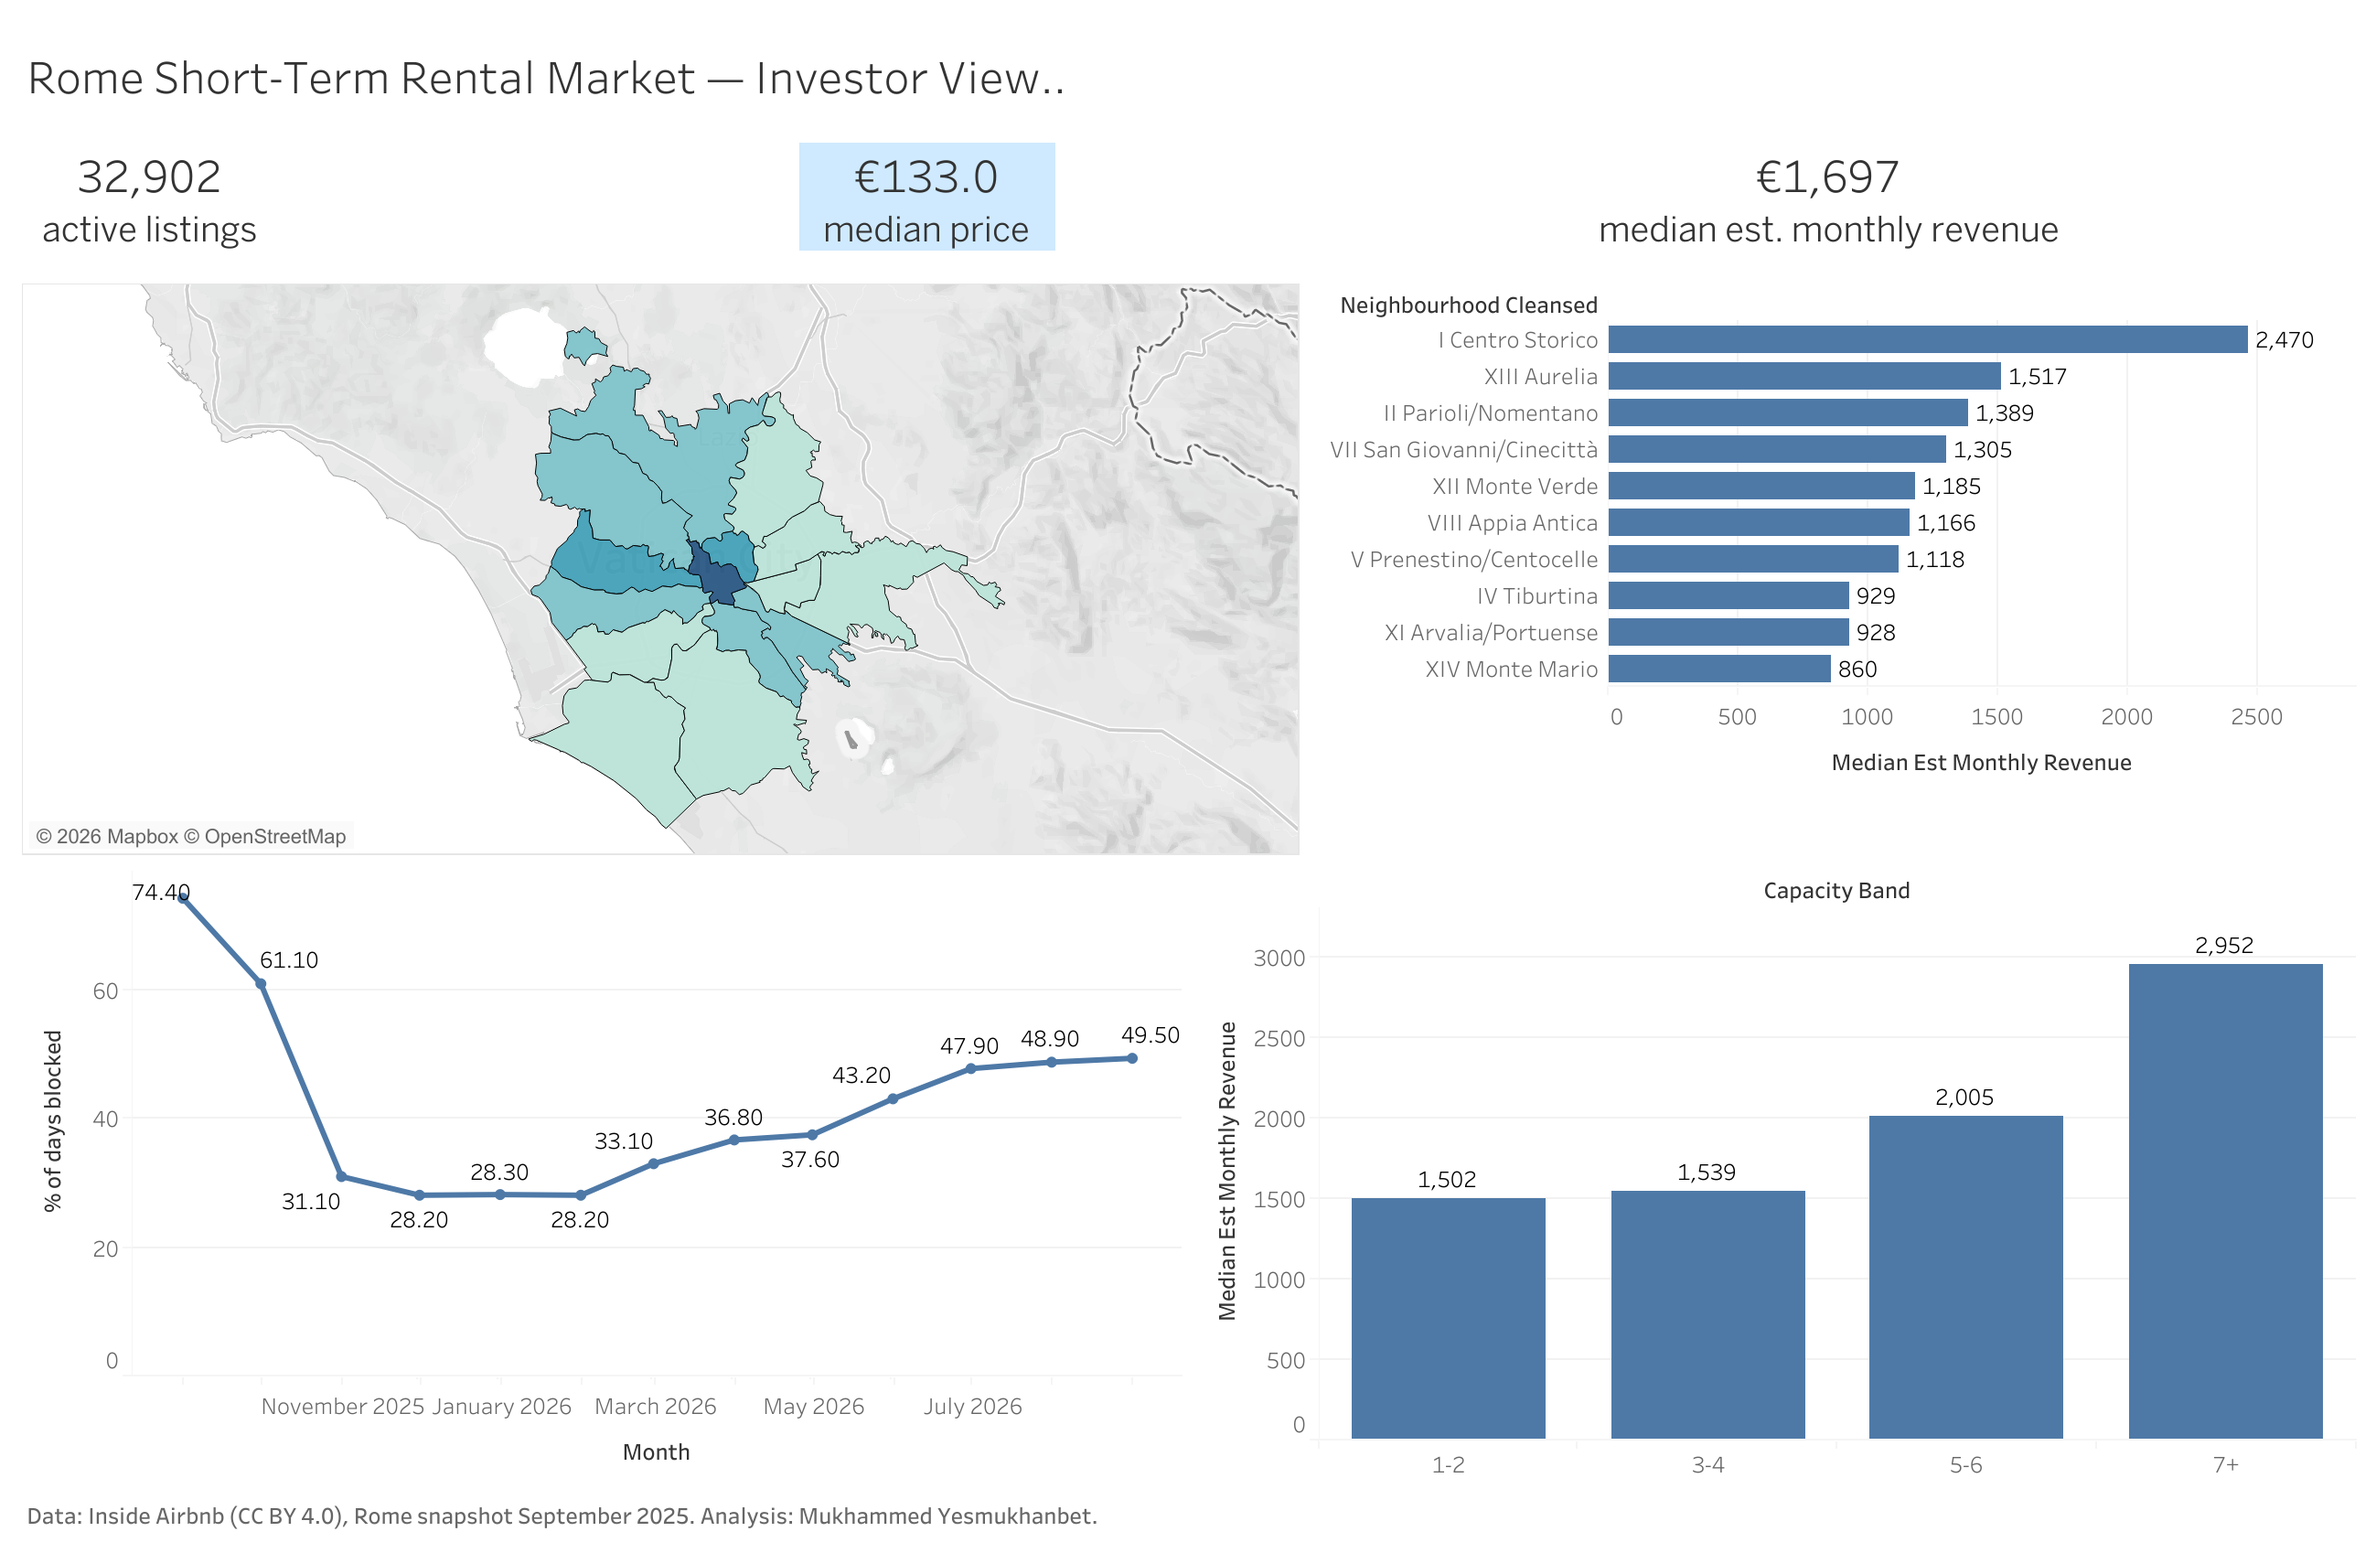
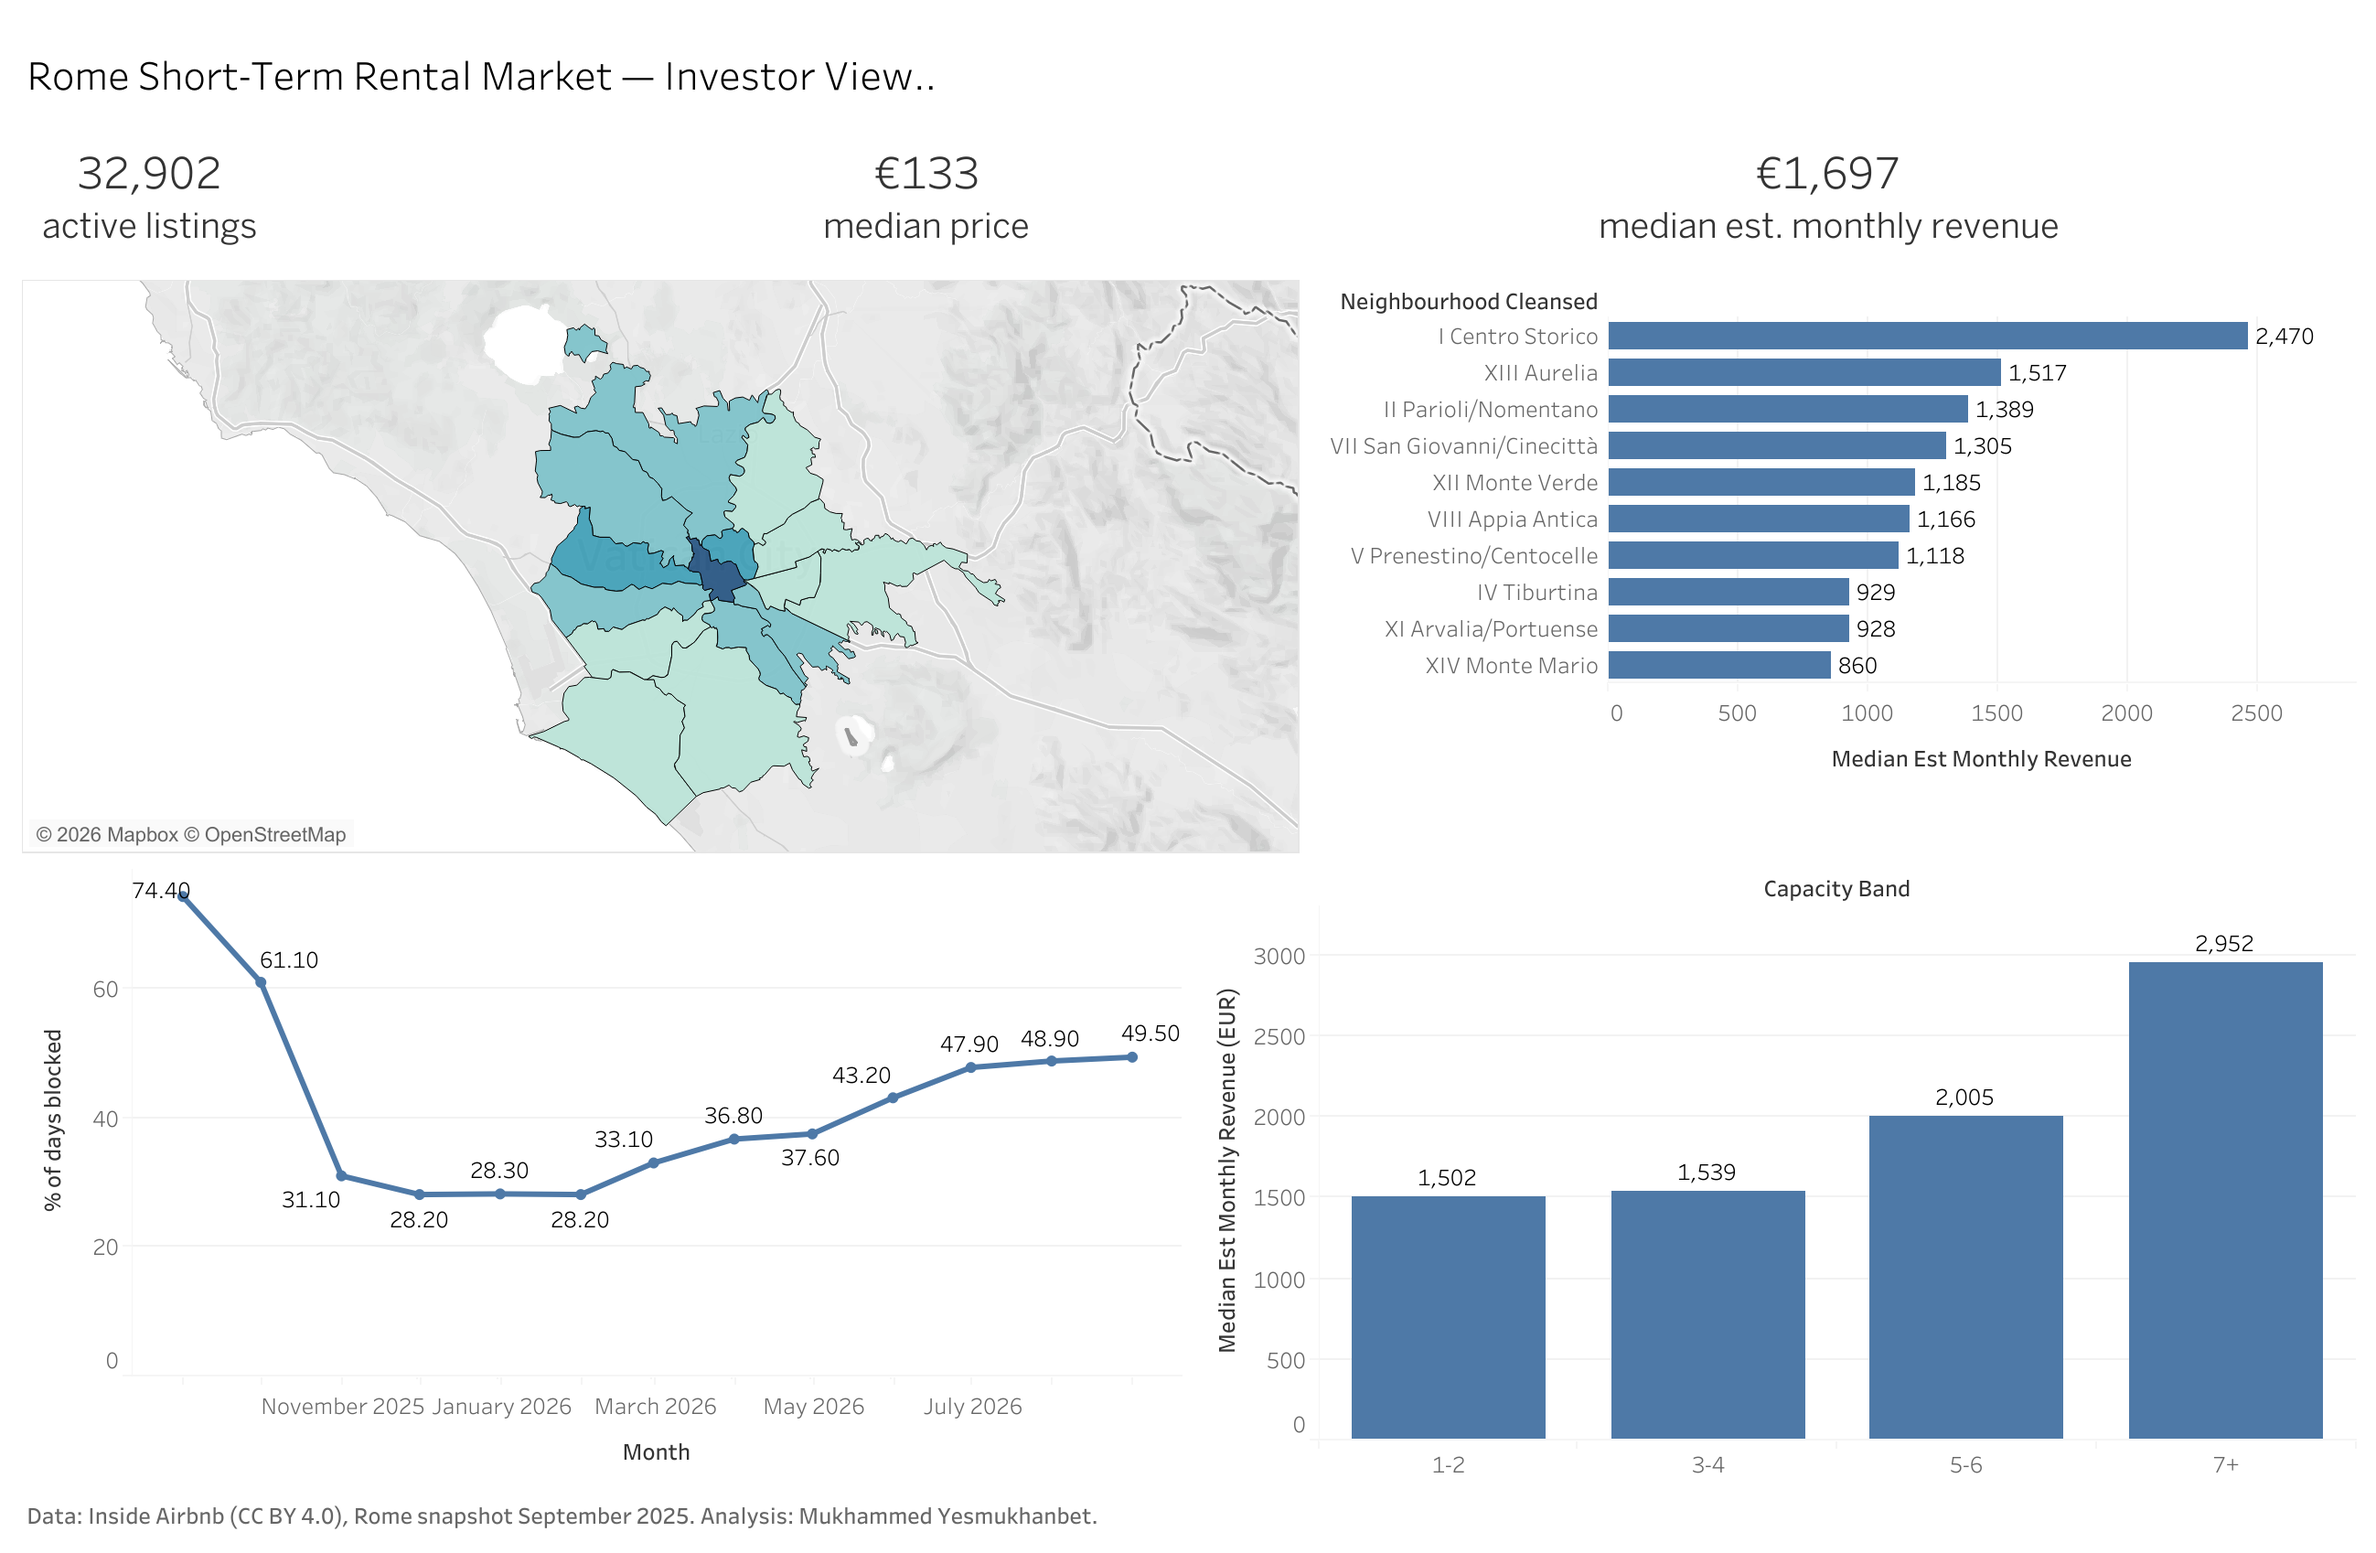
feat: Tableau dashboard, final README

diff --git a/README.md b/README.md
@@ -12,12 +12,12 @@ Market-entry analysis of 32,902 active Airbnb listings in Rome (Inside Airbnb sn
 
 ## Business context
 
-A property-management company is evaluating entry into Rome's short-term rental market. This analysis answers four questions an investor would actually ask:
+A property-management company is evaluating entry into Rome's short-term rental market. This analysis answers four questions an investor would ask:
 
-1. **Where** — which districts offer the best revenue potential relative to competition?
-2. **What** — which property configuration (room type, guest capacity) maximizes revenue?
-3. **When / how to price** — what does the forward booking curve imply for pricing strategy?
-4. **Who we compete with** — how professionalized and how regulated is the market?
+1. **Where:** which districts offer the best revenue potential relative to competition?
+2. **What:** which property configuration (room type, guest capacity) maximizes revenue?
+3. **When and how to price:** what does the forward booking curve imply for pricing strategy?
+4. **Who we compete with:** how professionalized and how regulated is the market?
 
 ## Data
 
@@ -28,7 +28,7 @@ A property-management company is evaluating entry into Rome's short-term rental 
 | `reviews.csv` | 2,193,330 | Full review history (demand proxy) |
 | `neighbourhoods.geojson` | 15 districts | Municipio boundaries for mapping |
 
-Snapshot date: **14 September 2025** (Inside Airbnb, CC BY 4.0). The trailing 12 months covered by review-based estimates coincide almost exactly with Rome's **Jubilee year** — a record tourism period — while the forward calendar covers the first post-Jubilee year.
+Snapshot date: **14 September 2025** (Inside Airbnb, CC BY 4.0). The trailing 12 months covered by review-based estimates fall within Rome's **Jubilee year**, a record tourism period. The forward calendar covers the first post-Jubilee year.
 
 **Cleaning:** dropped listings without a usable price (11% of raw) and trimmed price outliers to the 1st–99th percentile window (EUR 41–1,006), keeping 32,902 listings.
 
@@ -54,35 +54,35 @@ Listings with fewer than 5 reviews are excluded from revenue estimates (insuffic
 
 ## Key findings
 
-**1. The market is professionalized — you compete with companies, not hobbyists.**
-59.3% of listings belong to multi-property hosts; 9.1% belong to hosts operating 21+ properties. Single-listing hosts are a minority (40.7%).
+**1. Professional operators control the market.**
+59.3% of listings belong to multi-property hosts; 9.1% belong to hosts operating 21+ properties. Single-listing hosts are a minority (40.7%). A new entrant competes with companies.
 
-**2. Centro Storico is the biggest prize and the hardest fight.**
-The historic center holds **49% of all entire-home supply** (12,619 listings) with the highest median price (EUR 182/night) and the highest estimated revenue (EUR 2,470/month). Entry there means maximum acquisition costs and maximum competition. Inside Airbnb's own trailing-12-month estimates confirm the gap in actuals: median EUR 21.3k of Jubilee-year revenue in Centro Storico versus EUR 8–10k in the next-best districts.
+**2. Centro Storico pairs the highest revenue with the heaviest competition.**
+The historic center holds **49% of all entire-home supply** (12,619 listings) with the highest median price (EUR 182/night) and the highest estimated revenue (EUR 2,470/month). Inside Airbnb's own trailing-12-month estimates confirm the gap in actuals: median EUR 21.3k of Jubilee-year revenue in Centro Storico versus EUR 8–10k in the next-best districts. Entry there means maximum acquisition costs against maximum competition.
 
-**3. The best risk-adjusted entry points are XIII Aurelia and VII San Giovanni/Cinecittà.**
-Aurelia (bordering the Vatican) ranks **#2 in estimated revenue (EUR 1,517/month)** with ~9x less competition than the center (1,366 analyzed listings) and a median price of only EUR 126/night. San Giovanni/Cinecittà ranks #4 (EUR 1,305/month). By the review-based model they deliver 60–85% of central revenue; by Inside Airbnb's actual trailing-12-month estimates, ~40–50% (Aurelia EUR 9.8k/year, San Giovanni EUR 8.2k/year vs Centro EUR 21.3k) — still at a fraction of the competitive density and acquisition cost.
+**3. XIII Aurelia and VII San Giovanni/Cinecittà offer the best risk-adjusted entry.**
+Aurelia (bordering the Vatican) ranks **#2 in estimated revenue (EUR 1,517/month)** with ~9x less competition than the center (1,366 analyzed listings) and a median price of EUR 126/night. San Giovanni/Cinecittà ranks #4 (EUR 1,305/month). The review-based model puts them at 60–85% of central revenue; Inside Airbnb's trailing-12-month estimates put them at ~40–50% (Aurelia EUR 9.8k/year, San Giovanni EUR 8.2k/year vs Centro EUR 21.3k), still at a fraction of the competitive density and acquisition cost.
 
 **4. 5–6 guest apartments are the capacity sweet spot.**
-They earn a median EUR 2,004/month — **+30% vs the crowded 3–4 guest segment** (EUR 1,539, 9,408 listings) — while facing half the competition (4,626 listings). 7+ capacity tops absolute revenue (EUR 2,952) but is a niche with the lowest revenue per guest (EUR 352 vs EUR 757 for 1–2).
+They earn a median EUR 2,004/month, +30% over the crowded 3–4 guest segment (EUR 1,539 across 9,408 listings), while facing half the competition (4,626 listings). 7+ capacity tops absolute revenue (EUR 2,952) but forms a niche with the lowest revenue per guest (EUR 352 vs EUR 757 for 1–2).
 
-**5. The forward booking curve argues for aggressive dynamic pricing.**
-74% of the next 30 days are already blocked/booked, falling to ~28% for December–February and standing at ~49% for the following summer a year out. Winter is the soft spot; summer demand books far in advance.
+**5. Winter is the soft spot; summer books far in advance.**
+74% of the next 30 days are already blocked or booked. The share falls to ~28% for December–February and stands at ~49% for the following summer a year out. The curve supports seasonal dynamic pricing: premium in high season, discounts in winter.
 
-**6. Licensing (CIN) is table stakes, not a differentiator.**
-95.4% of listings display a license code; even the lowest district (EUR business area) shows 84.5%. Operating unlicensed is not a viable strategy in Rome.
+**6. Licensing (CIN) is a baseline requirement.**
+95.4% of listings display a license code; even the lowest district (EUR business area) shows 84.5%. An unlicensed listing would compete in a 95%-licensed market.
 
 ## Recommendation
 
-Enter via **XIII Aurelia or VII San Giovanni/Cinecittà** with **entire apartments for 5–6 guests**, priced around the district band (EUR 110–150/night) with seasonal dynamic pricing (premium March–October, discounts December–February). Expected estimated revenue: **EUR 1.5–2.0k per month per unit** under the stated occupancy model. Obtain the national CIN license before listing. Centro Storico generates roughly double the revenue of any other district in actuals, but entry there means competing with 10,000+ professionally managed listings at the highest acquisition costs; a final district decision would require property acquisition/rental cost data, which is outside this dataset.
+Enter via **XIII Aurelia or VII San Giovanni/Cinecittà** with **entire apartments for 5–6 guests**, priced within the district band (EUR 110–150/night) and repriced seasonally: premium March–October, discounts December–February. Expected estimated revenue: **EUR 1.5–2.0k per month per unit** under the stated occupancy model. Obtain the national CIN license before listing. Centro Storico generates about double the revenue of any other district in actuals, but entry there means competing with 10,000+ professionally managed listings at the highest acquisition costs. A final district decision would require property acquisition and rental cost data, which sits outside this dataset.
 
 ## Limitations
 
 - **No actual booking data exists publicly.** Revenue figures are model estimates from review velocity; assumptions are stated above and in `sql/03_analysis.sql`.
-- **Calendar prices are empty in this snapshot**, so seasonality is measured through availability (blocked share) only. "Blocked" mixes real bookings with host-blocked dates, and closer months are naturally more booked — the curve is a forward booking indicator, not a pure demand series.
-- License display is self-reported by hosts and not verified against the official registry.
+- **Calendar prices are empty in this snapshot**, so seasonality is measured through availability (blocked share) only. "Blocked" mixes real bookings with host-blocked dates, and closer months carry more accumulated bookings, so the curve indicates forward bookings rather than pure demand.
+- Hosts self-report the license field; this analysis does not verify it against the official registry.
 - One snapshot, one city: results describe Rome as of September 2025 and the surrounding Jubilee-year demand environment.
-- The review-based revenue model runs roughly 20–40% above Inside Airbnb's own trailing-12-month estimates; both figures are reported where relevant. The trailing-12-month window also coincides with the Jubilee year, so it likely represents a demand peak rather than a steady state.
+- The review-based revenue model runs 20–40% above Inside Airbnb's own trailing-12-month estimates; both figures appear where relevant. The trailing-12-month window also falls within the Jubilee year, so it captures a demand peak rather than a steady state.
 
 ## Repository structure
 
@@ -94,7 +94,7 @@ Enter via **XIII Aurelia or VII San Giovanni/Cinecittà** with **entire apartmen
 ├── sql/
 │   ├── 01_schema.sql      # staging tables
 │   ├── 02_transform.sql   # typed tables, indexes, monthly aggregates
-│   └── 03_analysis.sql    # 7 analytical queries (documented)
+│   └── 03_analysis.sql    # analytical queries (documented)
 ├── dashboard/             # dashboard screenshot
 └── requirements.txt
 ```
@@ -129,5 +129,5 @@ Data by [Inside Airbnb](https://insideairbnb.com), licensed under [CC BY 4.0](ht
 
 ---
 
-**Author:** Mukhammed Yesmukhanbet — MSc Management, Finance and Data Analytics (LUMSA, Rome)
+**Author:** Mukhammed Yesmukhanbet, MSc Management, Finance and Data Analytics (LUMSA, Rome)
 [LinkedIn](https://www.linkedin.com/in/myesmukhanbet) · [GitHub](https://github.com/m-yesmukhanbet)
